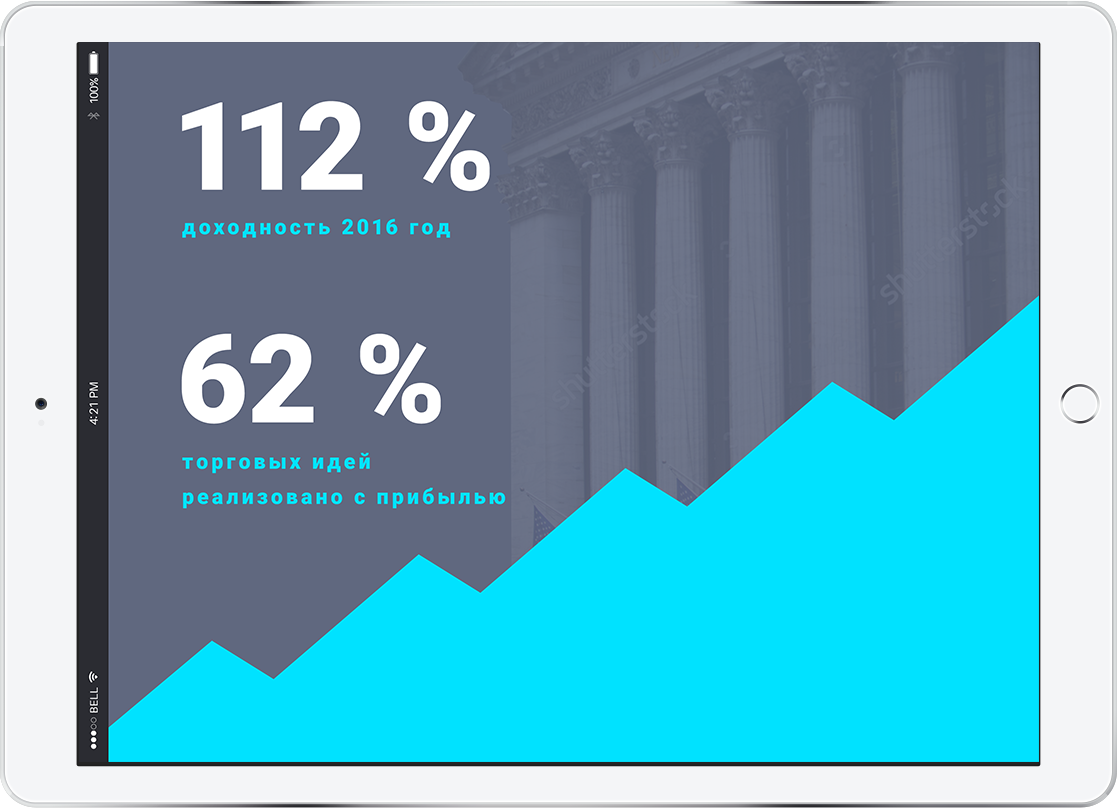
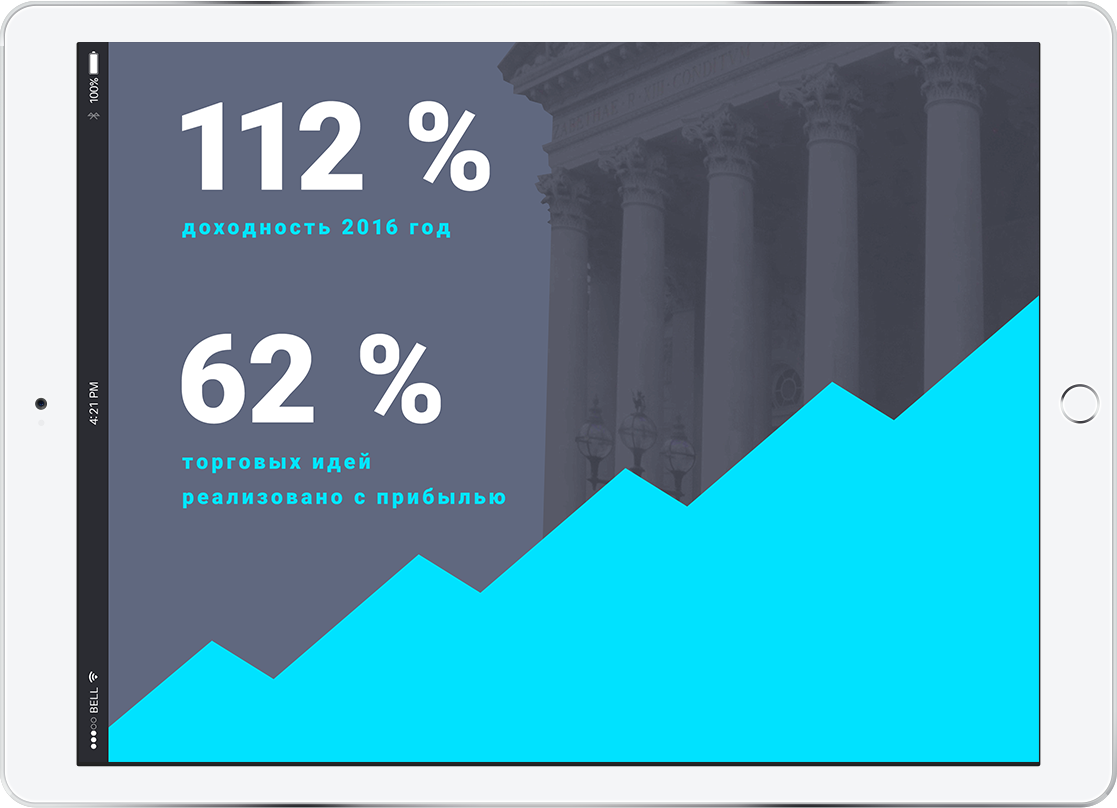
Hotfixes: - replacing image. - responsive fix for full-hd monitors.

Changed region(s): [[0.4261, 0.0309, 0.9436, 0.6807]]

diff --git a/themes/fondexx/gulp/source/sass/pages/landings/_demo.scss b/themes/fondexx/gulp/source/sass/pages/landings/_demo.scss
@@ -121,6 +121,10 @@
       background: url('../images/demo_trading.jpg') no-repeat, scroll, left top;
       background-size: cover;
 
+      @include min-screen(1600px) {
+        height: 900px;
+      }
+
       @include max-screen($tablet){
         min-height: 350px;
         height: auto;
